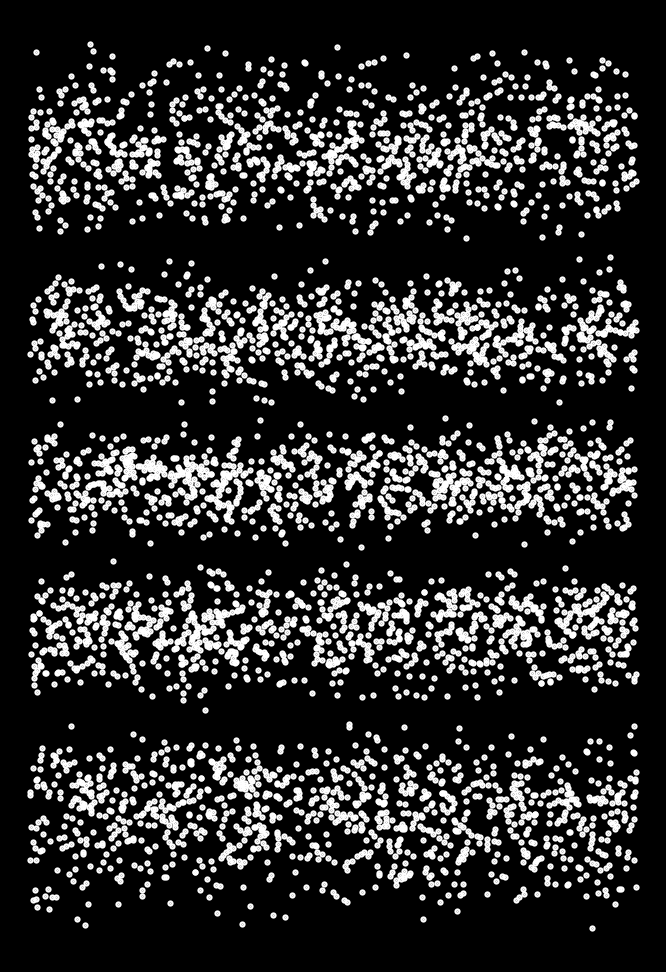
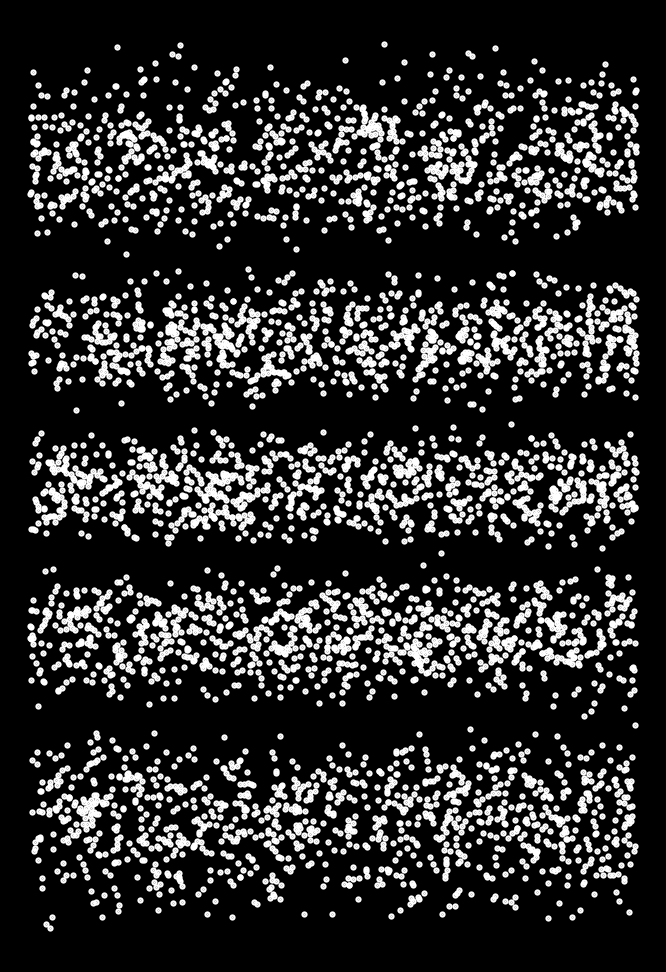
la til xlim, ylim

diff --git a/viPrøverIgjen/flereVariablerAvGangen/flereVariablerAvGangen.py b/viPrøverIgjen/flereVariablerAvGangen/flereVariablerAvGangen.py
@@ -293,6 +293,8 @@ for waveLength in lambdaArray:
                 # plt.grid(visible = False)
                 # x skal her være et tilfeldig tall
                 plt.plot(xListe, yListe, 'w.', markersize=1)
+                plt.xlim(0, 1)
+                plt.ylim(-y_max, y_max)
                 # plt.show()
                 strFile = setStringFile(4, str(iterator))
                 if os.path.isfile(strFile):
